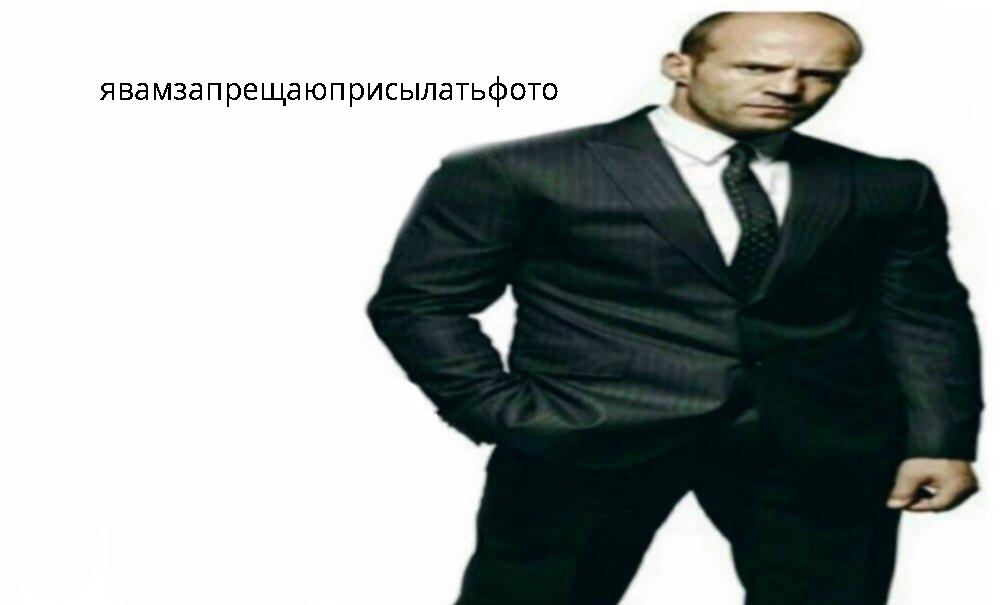
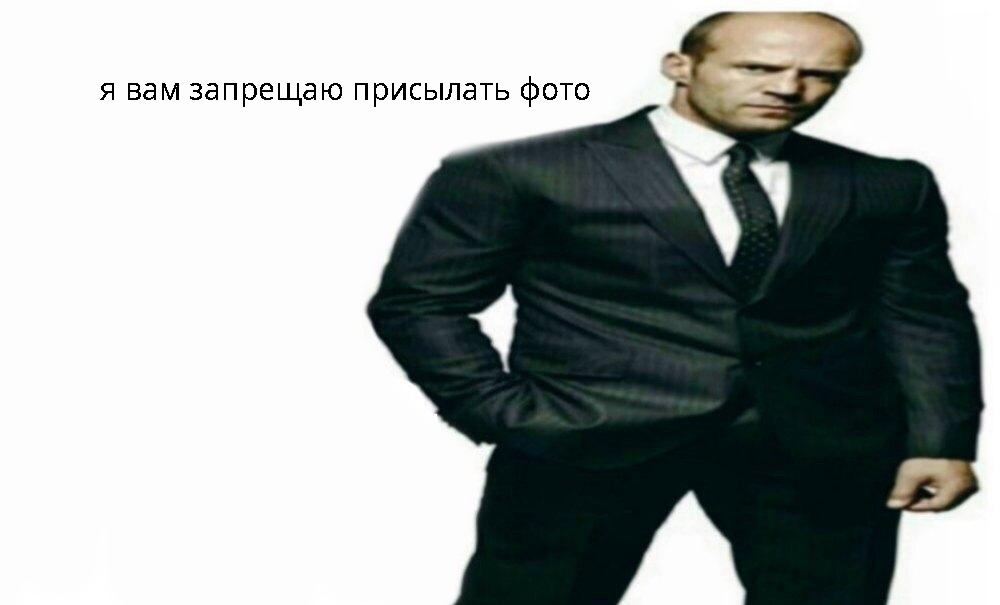
correct text that is being put on image (not tested yet)

Changed region(s): [[0.124, 0.119, 0.589, 0.1785]]

diff --git a/discord_bot/src/main/java/Main.java b/discord_bot/src/main/java/Main.java
@@ -8,7 +8,6 @@ import org.json.simple.parser.JSONParser;
 import org.json.simple.parser.ParseException;
 
 import javax.imageio.ImageIO;
-import javax.management.StringValueExp;
 import javax.security.auth.login.LoginException;
 import java.awt.*;
 import java.awt.image.BufferedImage;
@@ -82,7 +81,6 @@ public class Main extends ListenerAdapter {
         }
 
     }
-
     public File makeImage(String text, int type){
         StringBuilder returnPath = new StringBuilder();
         if(typeOfPic.BAN.ordinal() == type){
@@ -90,8 +88,6 @@ public class Main extends ListenerAdapter {
             try {
                 StringBuilder path = new StringBuilder();
                 String tmp = new String(Main.class.getProtectionDomain().getCodeSource().getLocation().getPath());
-                /*path.append(".." + File.separator +"resources" + File.separator + "BAN");
-                image = ImageIO.read(new File(path.toString()));*/
                 String[] pathAr = tmp.split(File.separator);
                 for(int i = 0; i < pathAr.length - 3; i++){
                     path.append(pathAr[i]).append(File.separator);
@@ -109,6 +105,19 @@ public class Main extends ListenerAdapter {
             Graphics g = image.getGraphics();
             g.setFont(g.getFont().deriveFont(30f));
             g.setColor(Color.black);
+            /*StringBuilder tmp = new StringBuilder();
+            * int xStart = 100, yStart = 100;
+            * for(int i = 0; i < text.length(); i++){
+            *     tmp.append(text[i]).append(" ");
+            *     if(i % 3 == 0){
+            *         g.drawString(tmp.toString(), xStart, yStart);
+            *         tmp.clean(); //remove words from builder
+            *         xStart += 40;
+            *         yStart += 40;
+            *     }
+            * }
+            * g.dispose();
+            * */
             g.drawString(text, 100, 100);
             g.dispose();
 
